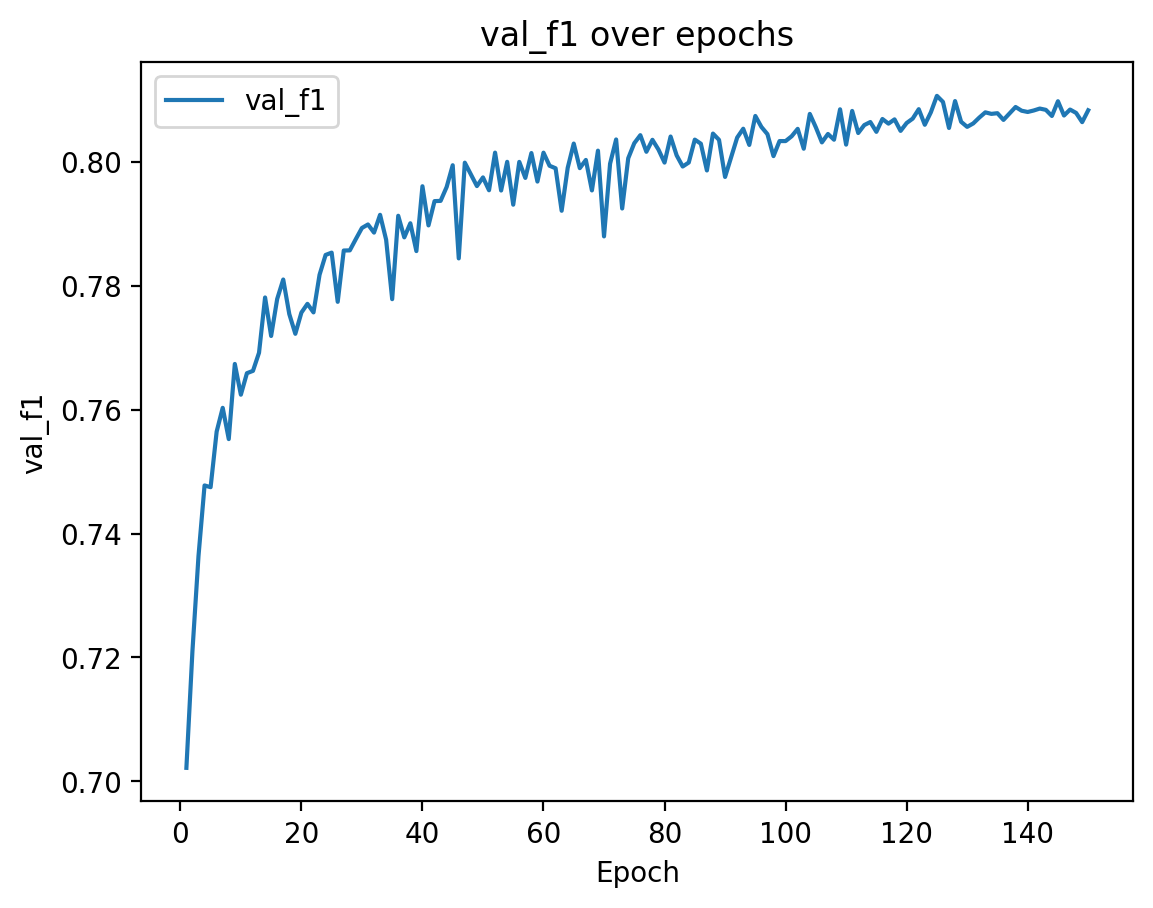
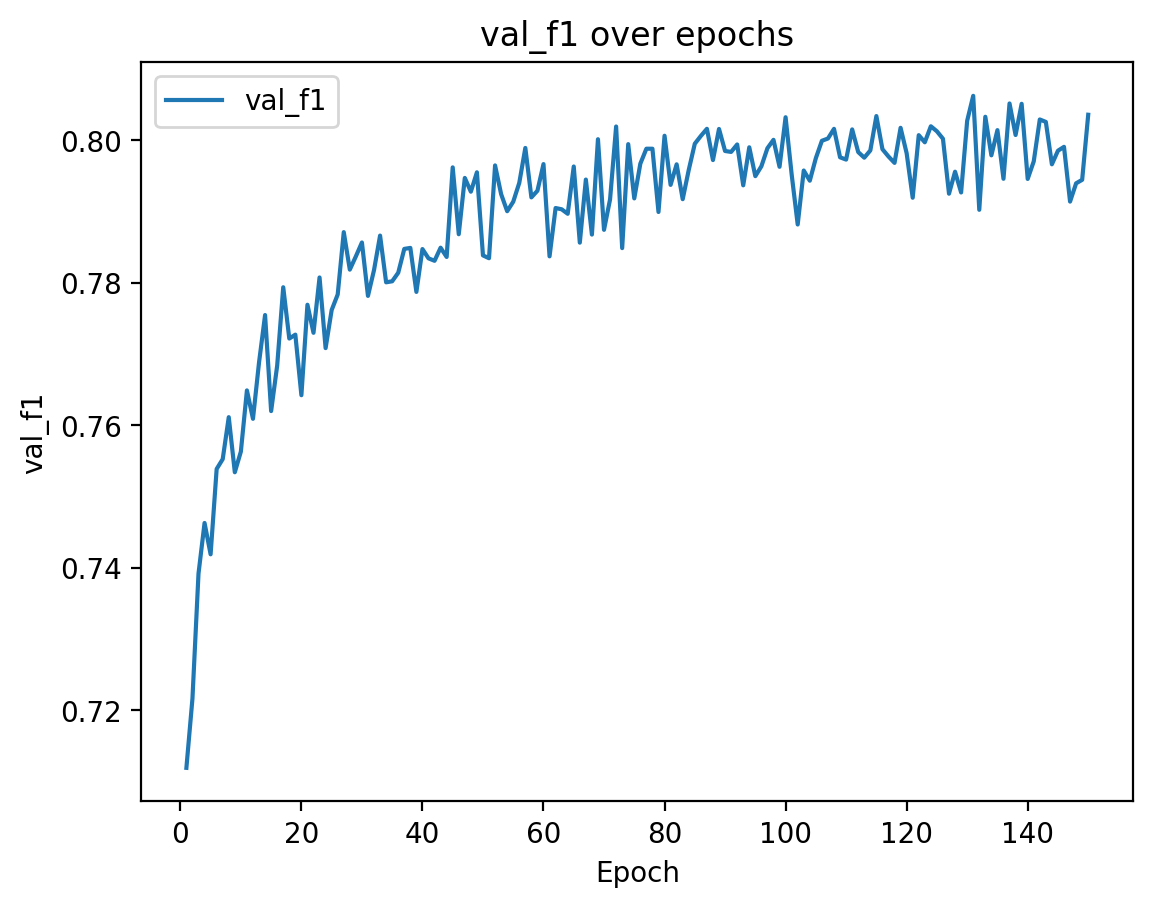
final tuning

diff --git a/deep_learning/runner.py b/deep_learning/runner.py
@@ -14,7 +14,7 @@ if torch.cuda.is_available():
 
 # Directory for saving the results
 os.makedirs("results", exist_ok=True)
-'''
+
 CITIES = [
     "amsterdam", "barcelona", "berlin", "brisbane",
     "cairo", "darmstadt", "lisbon", "madrid",
@@ -24,7 +24,7 @@ CITIES = [
 from pipelines.patch_extraction import process_city
 for city in tqdm(CITIES):
     process_city(city, patch_size=32)
-'''
+
 from pipelines.patch_filtering import patch_filtering
 img_patches, mask_patches = patch_filtering(patches_dir="data_patches", threshold=0.6)
 
@@ -37,7 +37,7 @@ from pipelines.testing import testing
 
 all_results = []
 epochs = 150
-lr = 0.0005
+lr = 0.0008
 
 # U-Net 
 from models.unet_model import UNet

diff --git a/deep_learning/pipelines/training.py b/deep_learning/pipelines/training.py
@@ -18,8 +18,8 @@ def training(train_loader, val_loader, model, epochs, learning_rate, device):
         scheduler = torch.optim.lr_scheduler.ReduceLROnPlateau(
         optimizer,
         mode="min",        
-        factor=0.7,        # lr = lr * 0.7
-        patience=10,        # wait 15 epochs with no improvement
+        factor=0.99,        # lr = lr * 0.9
+        patience=10,        # wait 10 epochs with no improvement
         )
 
         history = {

diff --git a/deep_learning/runner_experiments.py b/deep_learning/runner_experiments.py
@@ -69,7 +69,7 @@ all_results.append(model_results)
 
 # 3) U-Net 
 from models.unet_model import UNet
-lrs  = [0.0001, 0.0005, 0.001]
+lrs  = [0.0001, 0.0005, 0.008, 0.001]
 
 for lr in lrs:
     model_name = "UNet"

diff --git a/results/final.md b/results/final.md
@@ -1,3 +1,3 @@
 | model_name   |   test_loss |   test_acc |   test_iou |   test_f1 |
 |:-------------|------------:|-----------:|-----------:|----------:|
-| UNet         |      0.4341 |     0.7809 |     0.6792 |    0.8044 |
+| UNet         |      0.4329 |     0.7758 |     0.6726 |       0.8 |
